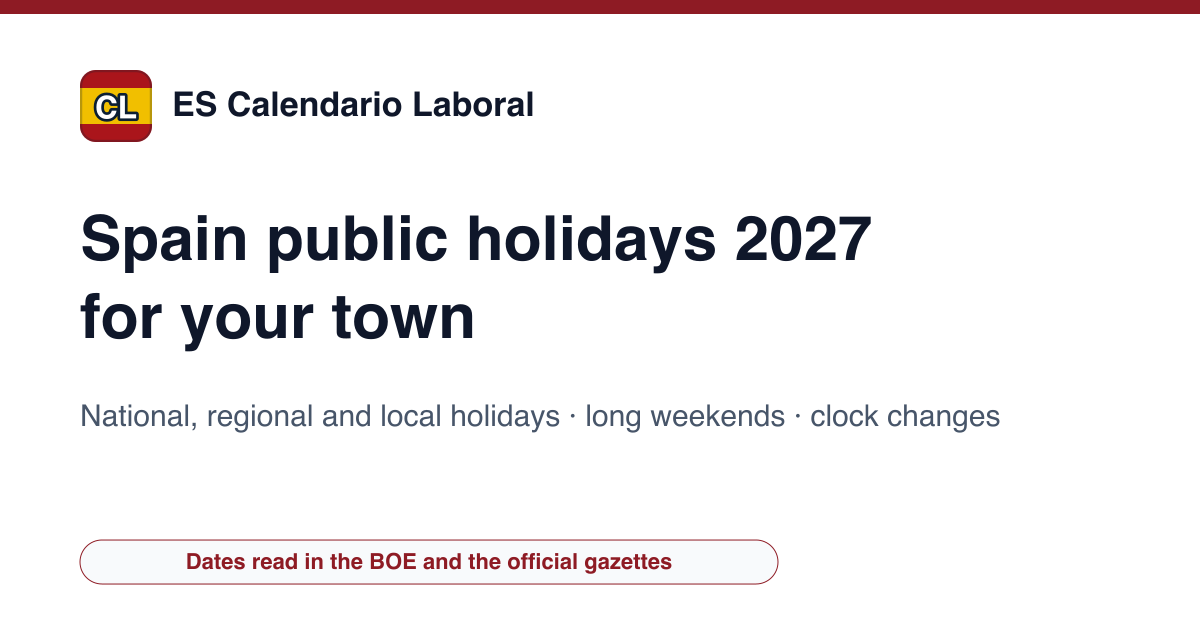
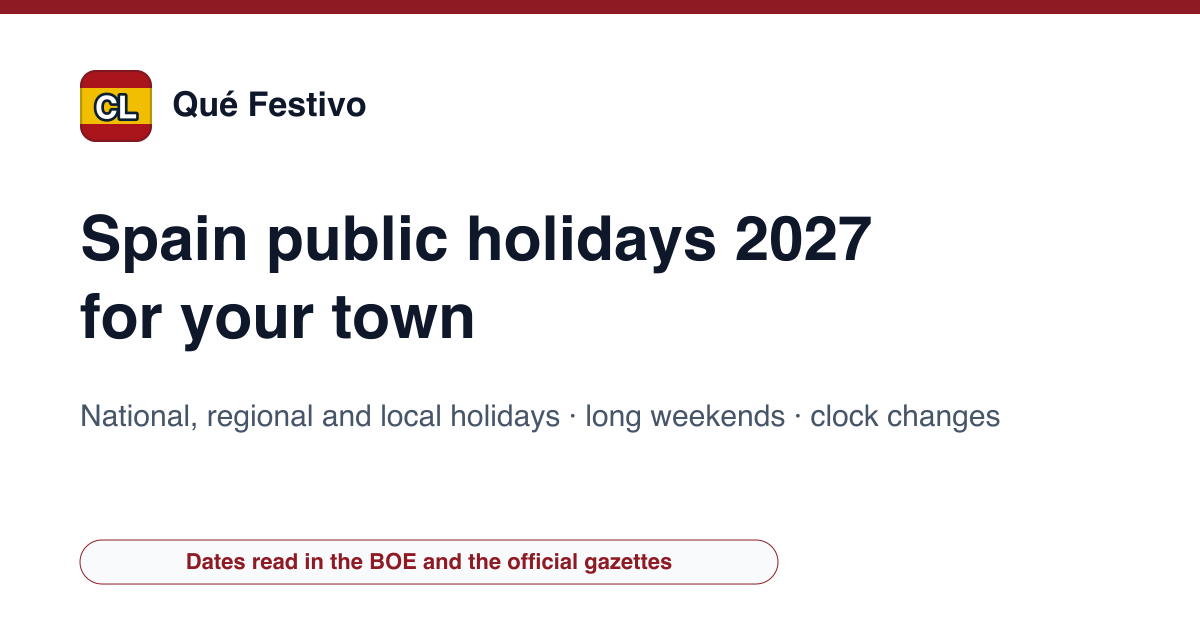
Renommage : ES Calendario Laboral devient Qué Festivo (quefestivo.com)
Adresse, CNAME, robots, manifeste, images OG, contact@quefestivo.com, workflow Pages avec ping IndexNow.

Changed region(s): [[0.1233, 0.1206, 0.4625, 0.2111]]

diff --git a/src/data/site-config.ts b/src/data/site-config.ts
@@ -1,8 +1,8 @@
 /** Configuration centrale du site (générée par new-site.py). */
-export const SITE_URL = "https://es-calendario-laboral.example";
-export const SITE_NAMES: Record<string, string> = {"es": "ES Calendario Laboral", "en": "ES Calendario Laboral"};
+export const SITE_URL = "https://quefestivo.com";
+export const SITE_NAMES: Record<string, string> = {"es": "Qué Festivo", "en": "Qué Festivo"};
 // Partie du nom affichée en couleur dans l'en-tête (RECETTE §10.3), « » pour aucune.
-export const BRAND_ACCENT = "Calendario Laboral";
+export const BRAND_ACCENT = "Festivo";
 export const LANG_TAGS: Record<string, string> = {"es": "es-ES", "en": "en-ES"};
 export const OG_LOCALES: Record<string, string> = {"es": "es_ES", "en": "en_GB"};
 export const LOCALE_TAG = 'es-ES';
@@ -15,12 +15,12 @@ export const SITE_FOUNDED = '2026';
 export const LAST_UPDATED = '2026-10-28';
 export const AUTHOR_NAME = 'Radif Partners';
 export const AUTHOR_ROLE: Record<string, string> = {"es": "Editor de calendarios laborales gratuitos para España: festivos nacionales, autonómicos y locales de cada municipio, puentes, cambio de hora y Semana Santa, calculados en tu navegador", "en": "Publisher of free Spanish work calendars: national, regional and local public holidays for each town, long weekends, clock changes and Holy Week, worked out in your browser"};
-export const AUTHOR_DESC: Record<string, string> = {"es": "Radif Partners es un editor independiente. Para ES Calendario Laboral lee la resolución anual de la Dirección General de Trabajo en el BOE, los decretos de fiestas de cada comunidad y las órdenes y resoluciones que fijan las dos fiestas locales de cada municipio en el boletín autonómico o provincial; las fechas que dependen de una regla (Semana Santa, Carnaval, cambio de hora) las calcula con algoritmos probados. No es una administración ni una gestoría, y nada de lo que escribes sale de tu navegador.", "en": "Radif Partners is an independent publisher. For ES Calendario Laboral it reads the Directorate-General for Labour's yearly resolution in the BOE, each region's holiday decree and the orders that fix every town's two local holidays in the regional or provincial gazette; dates that follow a rule (Holy Week, Carnival, clock changes) are computed with tested algorithms. It is not a public body or an agency, and nothing you type leaves your browser."};
+export const AUTHOR_DESC: Record<string, string> = {"es": "Radif Partners es un editor independiente. Para Qué Festivo lee la resolución anual de la Dirección General de Trabajo en el BOE, los decretos de fiestas de cada comunidad y las órdenes y resoluciones que fijan las dos fiestas locales de cada municipio en el boletín autonómico o provincial; las fechas que dependen de una regla (Semana Santa, Carnaval, cambio de hora) las calcula con algoritmos probados. No es una administración ni una gestoría, y nada de lo que escribes sale de tu navegador.", "en": "Radif Partners is an independent publisher. For Qué Festivo it reads the Directorate-General for Labour's yearly resolution in the BOE, each region's holiday decree and the orders that fix every town's two local holidays in the regional or provincial gazette; dates that follow a rule (Holy Week, Carnival, clock changes) are computed with tested algorithms. It is not a public body or an agency, and nothing you type leaves your browser."};
 /** Sujets sur lesquels l'editeur est competent (schema.org knowsAbout). Ce sont les
  *  themes reellement traites par le site, pas une liste de mots-cles : un sujet
  *  declare ici sans page qui le couvre est une declaration fausse. */
 export const KNOWS_ABOUT: Record<string, string[]> = {"es": ["fiestas laborales en España", "calendario laboral por comunidad autónoma", "fiestas locales de los municipios", "puentes y días de vacaciones", "cambio de hora", "Semana Santa y fechas móviles"], "en": ["Spanish public holidays", "regional work calendars in Spain", "local town holidays in Spain", "long weekends and leave planning", "daylight saving time in Spain", "Holy Week and movable feasts"]};
-export const CONTACT_EMAIL = "contacto@es-calendario-laboral.example";
+export const CONTACT_EMAIL = "contact@quefestivo.com";
 export const THEME_COLOR = '#8E1B24';
 export const LOGO_SYMBOL = 'CL';
 export const BING_VERIFY_CODE = '';
